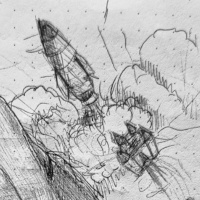
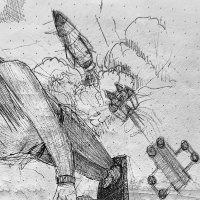
Rewrite penart 003

diff --git a/posts/penart_003/index.html b/posts/penart_003/index.html
@@ -96,12 +96,22 @@ document.addEventListener("DOMContentLoaded", function() {
         </article>
       
         <article>
+            <a href="../../images/issue_013/04.jpg" class="image"><img src="../../images/issue_013/04_thumbnail.jpg"></img></a>
+              <div class="caption"><p></p></div>
+        </article>
+      
+        <article>
             <a href="../../images/issue_013/05.jpg" class="image"><img src="../../images/issue_013/05_thumbnail.jpg"></img></a>
               <div class="caption"><p></p></div>
         </article>
       
         <article>
             <a href="../../images/issue_013/06.jpg" class="image"><img src="../../images/issue_013/06_thumbnail.jpg"></img></a>
+              <div class="caption"><p></p></div>
+        </article>
+      
+        <article>
+            <a href="../../images/issue_013/07.jpg" class="image"><img src="../../images/issue_013/07_thumbnail.jpg"></img></a>
               <div class="caption"><p></p></div>
         </article>
       
@@ -212,9 +222,9 @@ document.addEventListener("DOMContentLoaded", function() {
   </div>
 </section>
 <div class="gallery-post-content">
-<p><span class="dropcap">T</span>here is a story I was telling, which I retold many times yet it has been a while since I've told it last. Now getting back to the story I've noticed some gaps that I did not know how to bridge and I was getting this odd feeling that perhaps this have never happened. I stopped myself at that point and reminded myself that I don't make up such things, that I have no reason to, and that I find enough interest and weirdness in reality not to come up with such a thing. Well, here is the story:
+<p><span class="dropcap">T</span>here is a story I was telling, one I retold many times yet I haven't told it for a while. Now, getting back to telling the story I've noticed some gaps that I did not know how to fill, and I was getting this odd feeling: `perhaps this never happened?`. I then stopped and reminded myself that I don't make up such stories, that I have no reason to, and that I find enough interest and weirdness in reality not to come up with lies. Well, here is the story:
 </p>
-<p>A city, I don't know which. Some part of the city I don't know. I ended up in that part and my glasses frame broke, so I found an optician shop. In my memory it is more like a hardware shop. There was an old man behind a counter, you order, he fetches what you want. The counter I remember was behind a window that can be shut. I am not sure what kind of an optician has a setup like that.. I handed him my glases and asked when it will be ready as I will just be hanging outside till it's ready. He said an hour, so I carefuly made made my way across the road to a park and sat on a bench. I can't see a thing without my glasses, I am not sure how I passed that hour. When it was over I went over to the counter, the old man looked at me and said `Hello there, how can I help you?`, I told him I left him my glasses to fix an hour ago and he went to a back room for awhile. When he came back, he looked at me with that same look and said `Hello there, how can I help you`... So this is the strange story. He gave me my glasses after some exchange that I don't recall, not sure how he did come to remember.
+<p>I was in a city, I don't remember which city or in which country. I was in a part of the city that I was not familiar with. I ended up in that part and my glasses' frame broke, and so I found an optician shop. I remember it more like a hardware shop. There was an old man behind a counter. The counter that I remember had shutters and since I don't remember entering through a door, that counter was on the street. I am not sure what kind of an optician has a setup like that.. My story fails in the introduction and I have no memory to help it up. I handed the old man my glasses to fix and told him that I will just wait, as I have no replacement. He said `come back in an hour`, so I carefuly made my way across the road to a park and sat on a bench. I can't see a thing without my glasses and I have no memory of how I passed that hour, imagination and memory here intertwine. When the hour was up I went over to the counter, the old man was handling something. He looked at me and said `Hello there, how can I help you?`, I told him I left him my glasses to fix an hour ago and he went to a back room for a while. He didn't appear to recognise me. When he finally came back, he looked at me with that same look, as if my presence distracted him from some task, and said `Hello there, how can I help you?`. I had no choice but to repeat that I left my glasses with him and he was just fetching them, I then pointed at what he was holding, as it looked familiar in that blur. Those were my glasses he was holding.
 </p>
 <figure class="center-image">
   <img src="../../images/issue_013/10.jpg" alt="Masked">

diff --git a/tags/penart/index.html b/tags/penart/index.html
@@ -77,7 +77,7 @@ document.addEventListener("DOMContentLoaded", function() {
         <h2><a href="../../posts/penart_003/">Still going</a></h2>
         <h4>July 9, 2026</h4>
         
-        <p>There is a story I was telling, which I retold many times yet it has been a while since I&#39;ve told it last. Now getting back to the story I&#39;ve noticed some gaps that I did not know how to bridge and I...</p>
+        <p>There is a story I was telling, one I retold many times yet I haven&#39;t told it for a while. Now, getting back to telling the story I&#39;ve noticed some gaps that I did not know how to fill, and I was...</p>
       </article>
     
       <article>

diff --git a/posts/index.html b/posts/index.html
@@ -80,7 +80,7 @@ document.addEventListener("DOMContentLoaded", function() {
           <p>penart</p>
         </div>
         
-        <p>There is a story I was telling, which I retold many times yet it has been a while since I&#39;ve told it last. Now getting back to the story I&#39;ve noticed some gaps that I did not know how to bridge and I...</p>
+        <p>There is a story I was telling, one I retold many times yet I haven&#39;t told it for a while. Now, getting back to telling the story I&#39;ve noticed some gaps that I did not know how to fill, and I was...</p>
       </article>
     
       <article>
